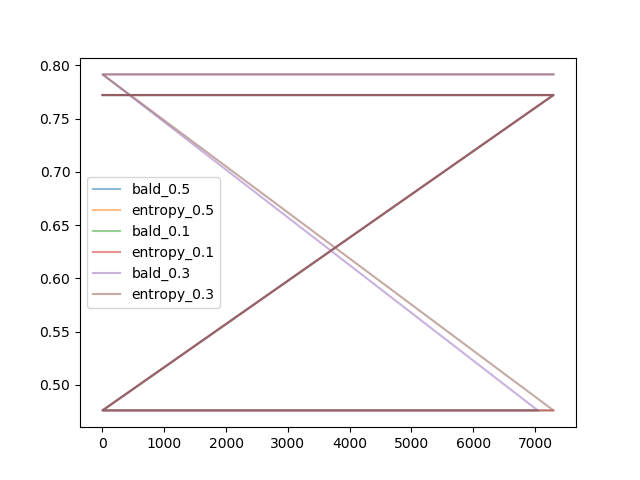
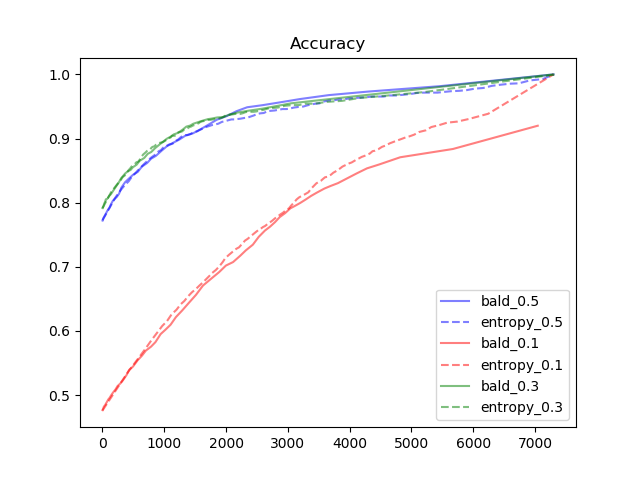
added all results

diff --git a/utils/result_comparison.py b/utils/result_comparison.py
@@ -17,20 +17,30 @@ def calculate_entropy(pos):
 
 def pre_result(cost_pre_bald, cost_pre_ent, pre_bald, pre_ent, output, rates):
     plt.figure()
+    colors = ['blue', 'red', 'black']
     for i, rate in enumerate(rates):
-        plt.plot(cost_pre_bald[i], pre_bald[i], label=f'bald_{rate}', alpha=0.5)
-        plt.plot(cost_pre_ent[i], pre_ent[i], label=f'entropy_{rate}',alpha=0.5)
+        plt.plot(cost_pre_bald[i], pre_bald[i], label=f'bald_{rate}', alpha=0.5, color=colors[i], linestyle='solid')
+        if i == 0:
+            plt.plot(cost_pre_ent[i], pre_ent[i], label=f'entropy',alpha=0.5, color='red', linestyle='dashed')
     plt.legend()
+    plt.title('Precision')
     plt.savefig(os.path.join(output, 'precision.png'))
+    plt.close()
+
 
 def acc_result(cost_acc_bald, cost_acc_ent, acc_bald, acc_ent, output, rates):
     plt.figure()
+    colors = ['blue', 'red', 'black']
     for i, rate in enumerate(rates):
         
-        plt.plot(cost_acc_bald[i], acc_bald[i], label=f'bald_{rate}', alpha=0.5)
-        plt.plot(cost_acc_ent[i], acc_ent[i], label=f'entropy_{rate}', alpha=0.5)
+        plt.plot(cost_acc_bald[i], acc_bald[i], label=f'bald_{rate}', alpha=0.5, color=colors[i], linestyle='solid')
+        if i == 0:
+            plt.plot(cost_acc_ent[i], acc_ent[i], label=f'entropy', alpha=0.5, color='red', linestyle='dashed')
     plt.legend()
+    plt.title('Accuracy')
     plt.savefig(os.path.join(output, 'accuracy.png'))
+    plt.close()
+
     
 def save_distribution(label, method, output, savename, hist=True):
     normal = method[np.where(label!=2)[0]]
@@ -41,6 +51,7 @@ def save_distribution(label, method, output, savename, hist=True):
     plt.title(savename + '_distribution')
     plt.legend()
     plt.savefig(os.path.join(output, (savename + '_distribution.png')))
+    plt.close()
     
 def posterior_transform(poses):
     for pos in poses:
@@ -50,20 +61,21 @@ def posterior_transform(poses):
     return pos
     
 def calculate_acc(label, preds, methods):
-    acc = []
-    cost = []
+
     acc_ = []
     cost_ = []
     for i, (pred, method) in enumerate(zip(preds, methods)):
+        acc = []
+        cost = []
         max = np.nanmax(method)
         min = np.nanmin(method)
-        for thu in np.arange(max, min-0.02, -0.01):
+        for thu in np.arange(max, min-0.02, -0.001):
             query = np.where(method>=thu)[0]
             cost.append(len(query))
             acc_child = len(np.where(pred[np.where(pred==label)[0]]==1)[0])
             acc_mother = len(np.where(pred==1)[0])  
             for j in query:
-                if pred[j] != label[i]:
+                if pred[j] != label[j]:
                     if pred[j] == 1:
                         acc_child += 1
                         
@@ -75,15 +87,16 @@ def calculate_acc(label, preds, methods):
     return  cost_ ,acc_
 
 def calculate_pre(label, preds, methods):
-    pre = []
-    cost = []
+
     pre_ = []
     cost_ = []
     for i, (pred, method) in enumerate(zip(preds, methods)):
+        pre = []
+        cost = []
         max = np.nanmax(method)
         min = np.nanmin(method)
         
-        for thu in np.arange(max, min-0.5, -0.01):
+        for thu in np.arange(max, min-0.02, -0.001):
             query = np.where(method>=thu)[0]
             cost.append(len(query))
             pre_child = len(np.where(label[np.where(pred==label)[0]]==1)[0])
@@ -116,21 +129,26 @@ def main(args):
     for i, rate_dir in enumerate(rate_dirs):
         rate = os.path.basename(os.path.dirname(rate_dir))
         rates.append(rate)
-        print(rates)
         if i == 0:
             label_in_garbage = np.load(os.path.join(rate_dir, 'result/label_include_garbage.npy'))# 2:Garbage
             balds = np.expand_dims(np.load(os.path.join(rate_dir, 'result/{}_drops_bald.npy'.format(cfg['n_drop']))),axis=0)
-            poses = np.expand_dims(np.load(os.path.join(rate_dir, 'result/{}_posterior.npy'.format(cfg['n_drop']))),axis=0)
-            preds = np.expand_dims(np.load(os.path.join(rate_dir, 'result/{}_pred.npy'.format(cfg['n_drop']))),axis=0)
-            entropies = np.expand_dims(calculate_entropy(np.load(os.path.join(rate_dir, 'result/{}_posterior.npy'.format(cfg['n_drop'])))),axis=0)
+            # poses = np.expand_dims(np.load(os.path.join(rate_dir, 'result/{}_posterior.npy'.format(cfg['n_drop']))),axis=0)
+            poses = np.expand_dims(np.load(os.path.join(rate_dir, 'result/posterior_scaled.npy')),axis=0)
+            # preds = np.expand_dims(np.load(os.path.join(rate_dir, 'result/{}_pred.npy'.format(cfg['n_drop']))),axis=0)
+            preds = np.expand_dims(np.load(os.path.join(rate_dir, 'result/y_pred_dense.npy')),axis=0)
+            # entropies = np.expand_dims(calculate_entropy(np.load(os.path.join(rate_dir, 'result/{}_posterior.npy'.format(cfg['n_drop'])))),axis=0)
+            entropies = np.expand_dims(calculate_entropy(np.load(os.path.join(rate_dir, 'result/posterior_scaled.npy'))),axis=0)
         else:
-            pos = np.expand_dims(np.load(os.path.join(rate_dir, 'result/{}_posterior.npy'.format(cfg['n_drop']))),axis=0)
+            # pos = np.expand_dims(np.load(os.path.join(rate_dir, 'result/{}_posterior.npy'.format(cfg['n_drop']))),axis=0)
+            pos = np.expand_dims(np.load(os.path.join(rate_dir, 'result/posterior_scaled.npy')),axis=0)
             poses = np.concatenate((poses, pos), axis=0)
             bald = np.expand_dims(np.load(os.path.join(rate_dir, 'result/{}_drops_bald.npy'.format(cfg['n_drop']))),axis=0)
             balds = np.concatenate((balds, bald), axis=0)
-            pred = np.expand_dims(np.load(os.path.join(rate_dir, 'result/{}_pred.npy'.format(cfg['n_drop']))),axis=0)
+            # pred = np.expand_dims(np.load(os.path.join(rate_dir, 'result/{}_pred.npy'.format(cfg['n_drop']))),axis=0)
+            pred = np.expand_dims(np.load(os.path.join(rate_dir, 'result/y_pred_dense.npy')),axis=0)
             preds = np.concatenate((preds, pred), axis=0)
-            entropy = np.expand_dims(calculate_entropy(np.load(os.path.join(rate_dir, 'result/{}_posterior.npy'.format(cfg['n_drop'])))),axis=0)
+            # entropy = np.expand_dims(calculate_entropy(np.load(os.path.join(rate_dir, 'result/{}_posterior.npy'.format(cfg['n_drop'])))),axis=0)
+            entropy = np.expand_dims(calculate_entropy(np.load(os.path.join(rate_dir, 'result/posterior_scaled.npy'))),axis=0)
             entropies = np.concatenate((entropies, entropy), axis=0)
     
     print("##BALD: ", balds.shape)
@@ -141,7 +159,6 @@ def main(args):
     # Garbageとの分離
     output = args.output
     for i, rate in enumerate(rates):
-        print(rate)
         save_distribution(label_in_garbage, balds[i], output, savename= f'bald_{rate}')
         save_distribution(label_in_garbage, entropies[i], output, savename= f'entropy_{rate}')
     
@@ -159,7 +176,7 @@ def main(args):
     for i, rate in enumerate(rates):
         conf_mat = confusion_matrix(label, preds[i])
         plt.figure()
-        sns.heatmap(conf_mat, annot=True, cmap='Blues')
+        sns.heatmap(conf_mat, annot=True, cmap='Blues',fmt='.5g')
         plt.savefig(os.path.join(args.output, '{}_confusion_matrix.png'.format(rate)))
         
     
@@ -168,7 +185,7 @@ if __name__ == '__main__':
     parser.add_argument('--input', type=str)
     parser.add_argument('--output', type=str)
     parser.add_argument('--dr_rate', type=float)
-    parser.add_argument('--n_drop', type=int, default=10)
+    parser.add_argument('--n_drop', type=int, default=100)
     args = parser.parse_args()
     
     main(args)

diff --git a/main/eval.py b/main/eval.py
@@ -108,7 +108,7 @@ if __name__ == '__main__':
     parser.add_argument('--batchsize', type=int, default=32)
     parser.add_argument('--weight', type=str)
     parser.add_argument('--dr_rate',type=float)
-    parser.add_argument('--n_drop', type=int, default=10)
+    parser.add_argument('--n_drop', type=int, default=100)
     args = parser.parse_args()
     main(args)
     
